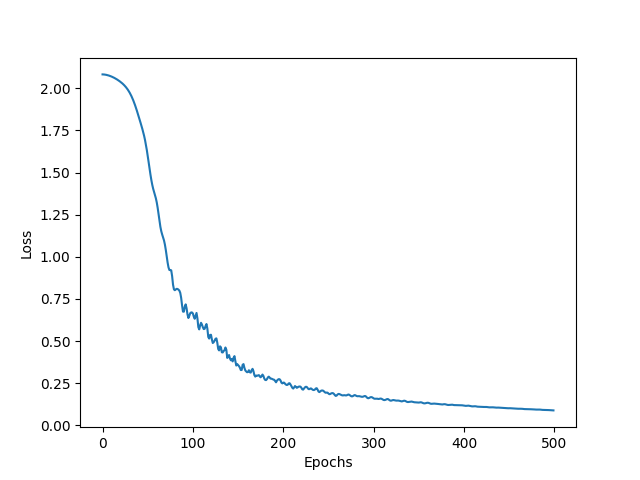
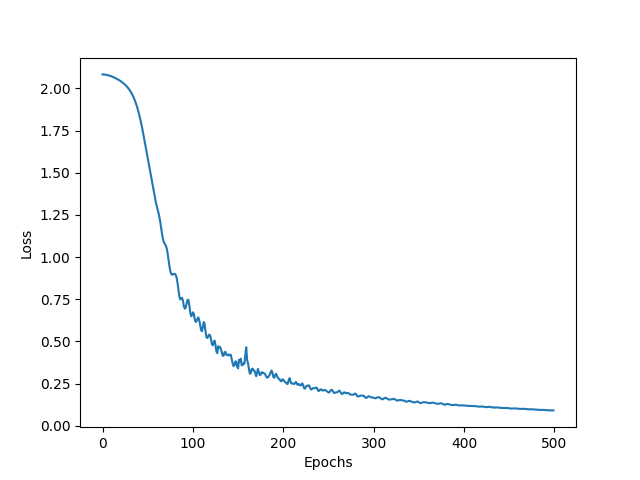
2 hidden layers

diff --git a/main.py b/main.py
@@ -187,7 +187,7 @@ def analyze_data(X_train: pd.DataFrame, Y_train: pd.Series, x_test: pd.DataFrame
     logging.info("This device has " + device.type + " available.")
     # MLP hyperparams
     hidden_layer_size = 512
-    number_hidden_layers = 5
+    number_hidden_layers = 2
     lr = 0.01
     momentum = 0.99
     epochs = 500
